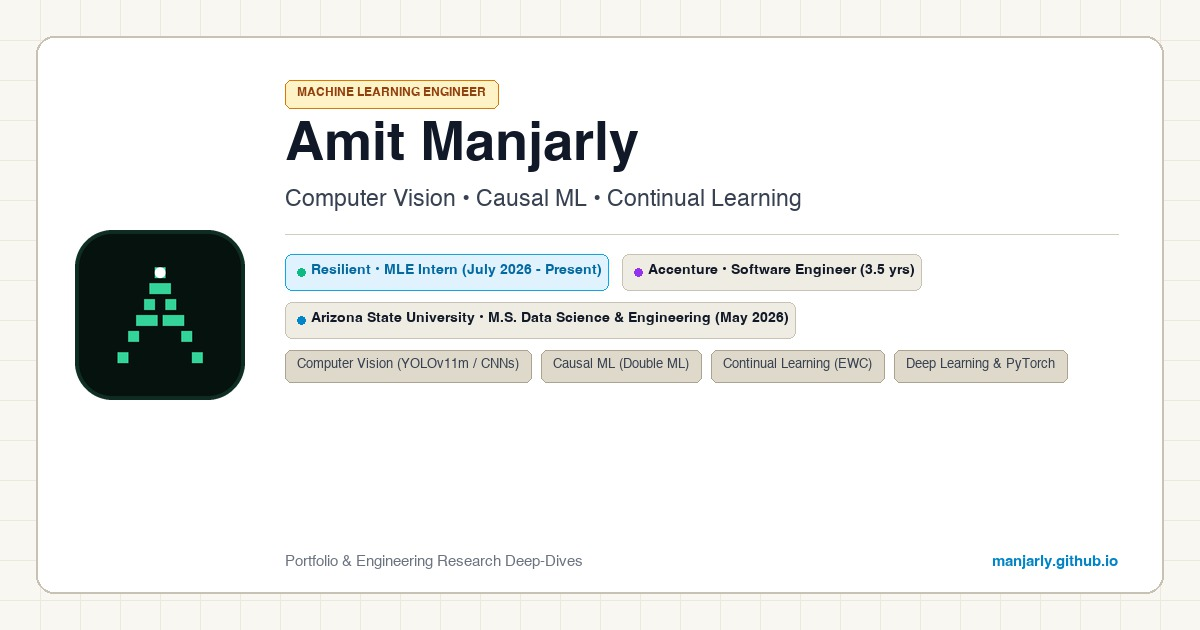
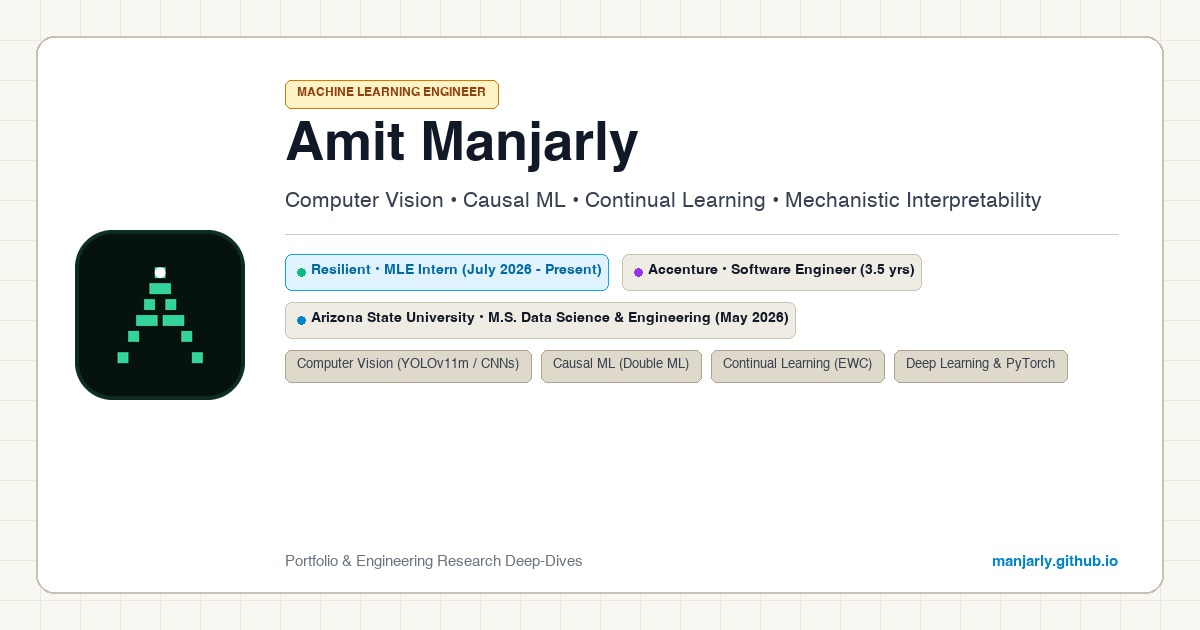
Add Mechanistic Interpretability directly below name on social preview and update meta tags

Changed region(s): [[0.2158, 0.3016, 0.8633, 0.3317]]

diff --git a/index.html b/index.html
@@ -12,7 +12,7 @@
   <meta property="og:url" content="https://manjarly.github.io/" />
   <meta property="og:site_name" content="Manjarly" />
   <meta property="og:title" content="Amit Manjarly | Machine Learning Engineer" />
-  <meta property="og:description" content="Portfolio of Amit Manjarly. Machine Learning Engineer Intern at Resilient & ASU Graduate Researcher specializing in Computer Vision, Causal ML, and Continual Learning." />
+  <meta property="og:description" content="Portfolio of Amit Manjarly. Machine Learning Engineer Intern at Resilient & ASU Graduate Researcher specializing in Computer Vision, Causal ML, Continual Learning, and Mechanistic Interpretability." />
   <meta property="og:image" content="https://manjarly.github.io/og-image.png" />
   <meta property="og:image:secure_url" content="https://manjarly.github.io/og-image.png" />
   <meta property="og:image:type" content="image/png" />
@@ -24,7 +24,7 @@
   <meta name="twitter:card" content="summary_large_image" />
   <meta name="twitter:url" content="https://manjarly.github.io/" />
   <meta name="twitter:title" content="Amit Manjarly | Machine Learning Engineer" />
-  <meta name="twitter:description" content="Portfolio of Amit Manjarly. Machine Learning Engineer Intern at Resilient & ASU Graduate Researcher." />
+  <meta name="twitter:description" content="Portfolio of Amit Manjarly. Machine Learning Engineer Intern at Resilient & ASU Graduate Researcher specializing in Computer Vision, Causal ML, Continual Learning, and Mechanistic Interpretability." />
   <meta name="twitter:image" content="https://manjarly.github.io/og-image.png" />
 
   <link rel="icon" type="image/svg+xml" href="favicon.svg" />
